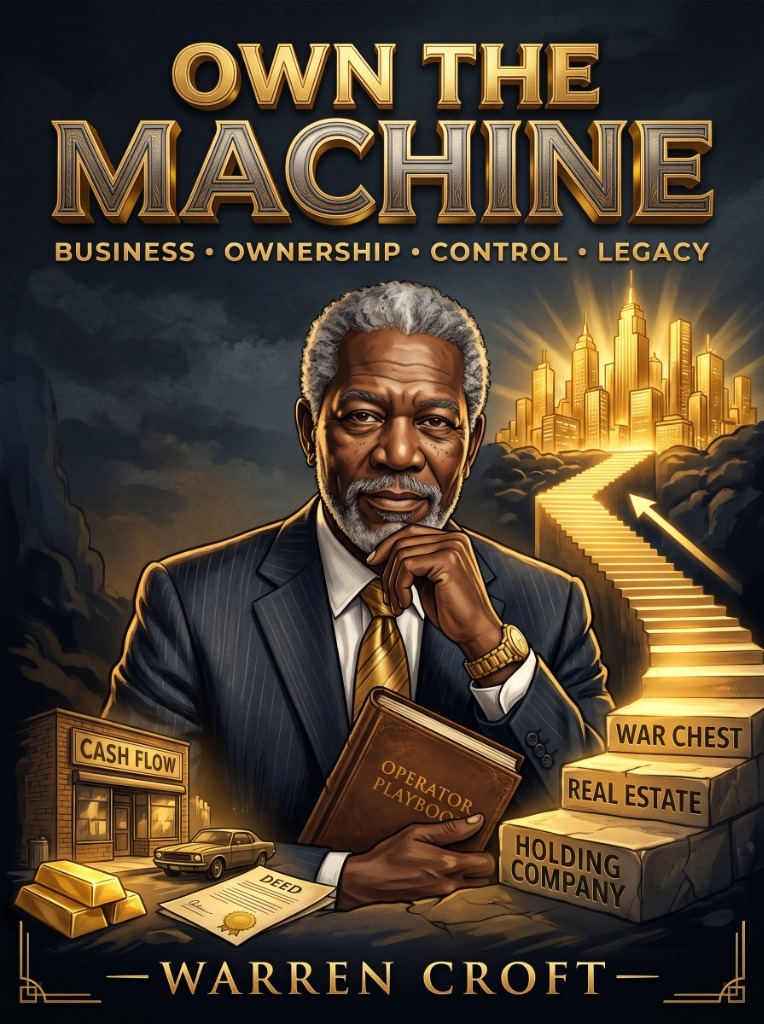
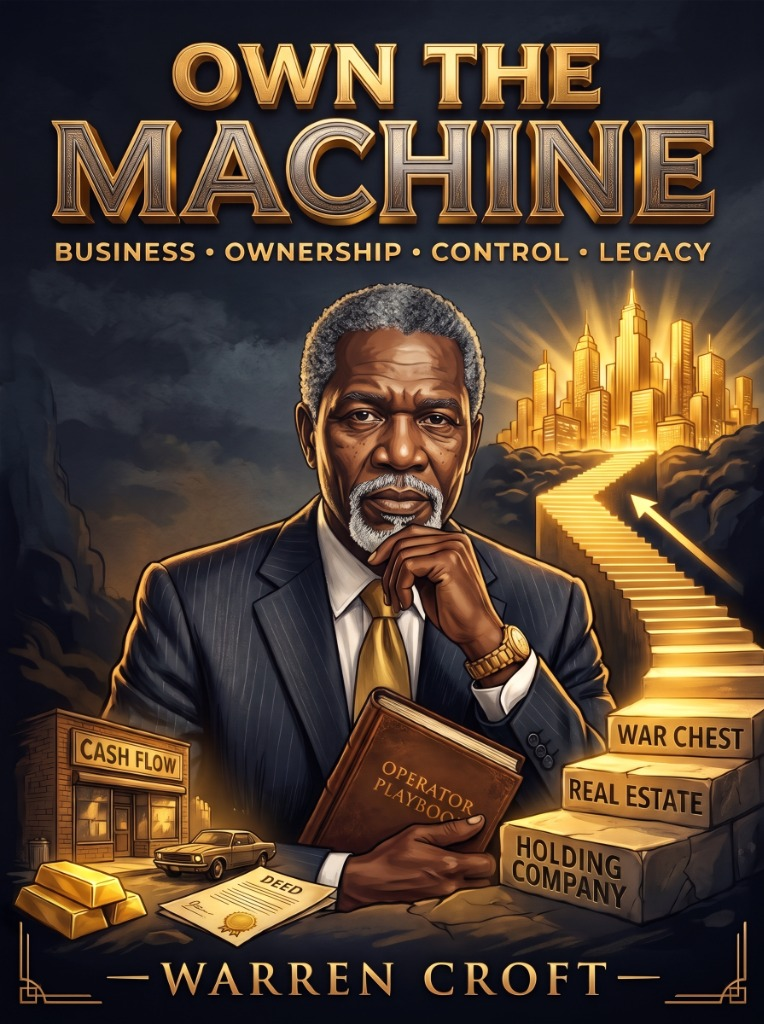
feat: update to latest book cover upload, clean CTA button labels without Gumroad text suffix, update badge to BEST VALUE · MOST RECOMMENDED

diff --git a/index.html b/index.html
@@ -141,6 +141,14 @@
       background-position: 0 0, 14px 14px;
     }
 
+    
+    /* Suppress Gumroad injected text */
+    .gumroad-button::after, .gumroad-button::before,
+    [data-gumroad-single-product]::after, [data-gumroad-single-product]::before {
+      display: none !important;
+      content: '' !important;
+    }
+
     /* In-App Browser Mobile CTA Padding */
     .safe-bottom-padding {
       padding-bottom: max(1rem, env(safe-area-inset-bottom));
@@ -165,7 +173,7 @@
 
       <!-- Quick Action CTA -->
       <a href="https://gumroad.com/l/own-the-machine" 
-         class="gumroad-cta-btn gumroad-button frankie-primary-btn inline-flex items-center gap-1.5 px-4 py-2 rounded font-sans text-xs sm:text-sm tracking-wide">
+         class="gumroad-cta-btn frankie-primary-btn inline-flex items-center gap-1.5 px-4 py-2 rounded font-sans text-xs sm:text-sm tracking-wide">
         <span>Claim Copy · $27</span>
         <svg xmlns="http://www.w3.org/2000/svg" width="14" height="14" fill="currentColor" viewBox="0 0 256 256" aria-hidden="true"><path d="M204,64V168a12,12,0,0,1-24,0V93L72.49,200.49a12,12,0,0,1-17-17L163,76H88a12,12,0,0,1,0-24H192A12,12,0,0,1,204,64Z"></path></svg>
       </a>
@@ -199,7 +207,7 @@
     <!-- Primary Hero Action Block -->
     <div class="flex flex-col items-center justify-center gap-2 mb-6">
       <a href="https://gumroad.com/l/own-the-machine" 
-         class="gumroad-cta-btn gumroad-button frankie-primary-btn inline-flex items-center justify-center gap-2.5 px-8 py-4 rounded-md text-base sm:text-lg font-extrabold tracking-wide">
+         class="gumroad-cta-btn frankie-primary-btn inline-flex items-center justify-center gap-2.5 px-8 py-4 rounded-md text-base sm:text-lg font-extrabold tracking-wide">
         <span>Download The Playbook · $27</span>
         <svg xmlns="http://www.w3.org/2000/svg" width="18" height="18" fill="currentColor" viewBox="0 0 256 256" aria-hidden="true"><path d="M204,64V168a12,12,0,0,1-24,0V93L72.49,200.49a12,12,0,0,1-17-17L163,76H88a12,12,0,0,1,0-24H192A12,12,0,0,1,204,64Z"></path></svg>
       </a>
@@ -237,7 +245,7 @@
       <!-- Floating Badge on Top -->
       <p class="text-[#171204] bg-storefront-accent-light font-mono text-[10px] sm:text-xs tracking-widest uppercase font-extrabold px-4 py-1.5 rounded-full shadow-md inline-flex items-center gap-1.5 absolute -top-4 left-1/2 -translate-x-1/2 whitespace-nowrap">
         <i data-lucide="award" class="w-3.5 h-3.5"></i>
-        <span>BEST VALUE · COMPLETE 2026 OPERATOR EDITION</span>
+        <span>BEST VALUE · MOST RECOMMENDED</span>
       </p>
 
       <!-- Book Cover Image Display (Frankie Finance Style) -->
@@ -298,7 +306,7 @@
 
       <!-- CTA Button -->
       <a href="https://gumroad.com/l/own-the-machine" 
-         class="gumroad-cta-btn gumroad-button frankie-primary-btn w-full max-w-md inline-flex items-center justify-center gap-2 py-3.5 px-6 rounded text-base font-extrabold tracking-wide">
+         class="gumroad-cta-btn frankie-primary-btn w-full max-w-md inline-flex items-center justify-center gap-2 py-3.5 px-6 rounded text-base font-extrabold tracking-wide">
         <span>Get The Complete Playbook · $27</span>
         <svg xmlns="http://www.w3.org/2000/svg" width="16" height="16" fill="currentColor" viewBox="0 0 256 256" aria-hidden="true"><path d="M204,64V168a12,12,0,0,1-24,0V93L72.49,200.49a12,12,0,0,1-17-17L163,76H88a12,12,0,0,1,0-24H192A12,12,0,0,1,204,64Z"></path></svg>
       </a>
@@ -489,7 +497,7 @@
             Full 2-Offer Seller Financing LOI + 90-Day Due Diligence Checklist included on Pages 27–31 and Page 45.
           </p>
           <a href="https://gumroad.com/l/own-the-machine" 
-             class="gumroad-cta-btn gumroad-button frankie-primary-btn inline-flex items-center gap-1.5 px-6 py-2.5 rounded text-xs sm:text-sm font-mono tracking-wide">
+             class="gumroad-cta-btn frankie-primary-btn inline-flex items-center gap-1.5 px-6 py-2.5 rounded text-xs sm:text-sm font-mono tracking-wide">
             <span>Unlock Full LOI Contract & Spreadsheet — $27</span>
             <i data-lucide="download" class="w-4 h-4"></i>
           </a>
@@ -735,7 +743,7 @@
       <!-- Parchment Section CTA -->
       <div class="mt-12 text-center">
         <a href="https://gumroad.com/l/own-the-machine" 
-           class="gumroad-cta-btn gumroad-button inline-flex items-center justify-center gap-2 px-8 py-4 rounded-lg bg-[#111827] hover:bg-black text-storefront-accent-light font-bold text-base tracking-wide transition shadow-xl border border-storefront-accent-light/40">
+           class="gumroad-cta-btn inline-flex items-center justify-center gap-2 px-8 py-4 rounded-lg bg-[#111827] hover:bg-black text-storefront-accent-light font-bold text-base tracking-wide transition shadow-xl border border-storefront-accent-light/40">
           <span>Get The Complete 48-Page Playbook for $27</span>
           <i data-lucide="arrow-right" class="w-4 h-4 text-storefront-accent-light"></i>
         </a>
@@ -989,7 +997,7 @@
       </div>
 
       <a href="https://gumroad.com/l/own-the-machine" 
-         class="gumroad-cta-btn gumroad-button frankie-primary-btn flex-1 max-w-[170px] inline-flex items-center justify-center gap-1.5 py-2.5 px-3 rounded text-xs tracking-wide shadow-md font-sans">
+         class="gumroad-cta-btn frankie-primary-btn flex-1 max-w-[170px] inline-flex items-center justify-center gap-1.5 py-2.5 px-3 rounded text-xs tracking-wide shadow-md font-sans">
         <span>Get Access Now</span>
         <svg xmlns="http://www.w3.org/2000/svg" width="13" height="13" fill="currentColor" viewBox="0 0 256 256" aria-hidden="true"><path d="M204,64V168a12,12,0,0,1-24,0V93L72.49,200.49a12,12,0,0,1-17-17L163,76H88a12,12,0,0,1,0-24H192A12,12,0,0,1,204,64Z"></path></svg>
       </a>
